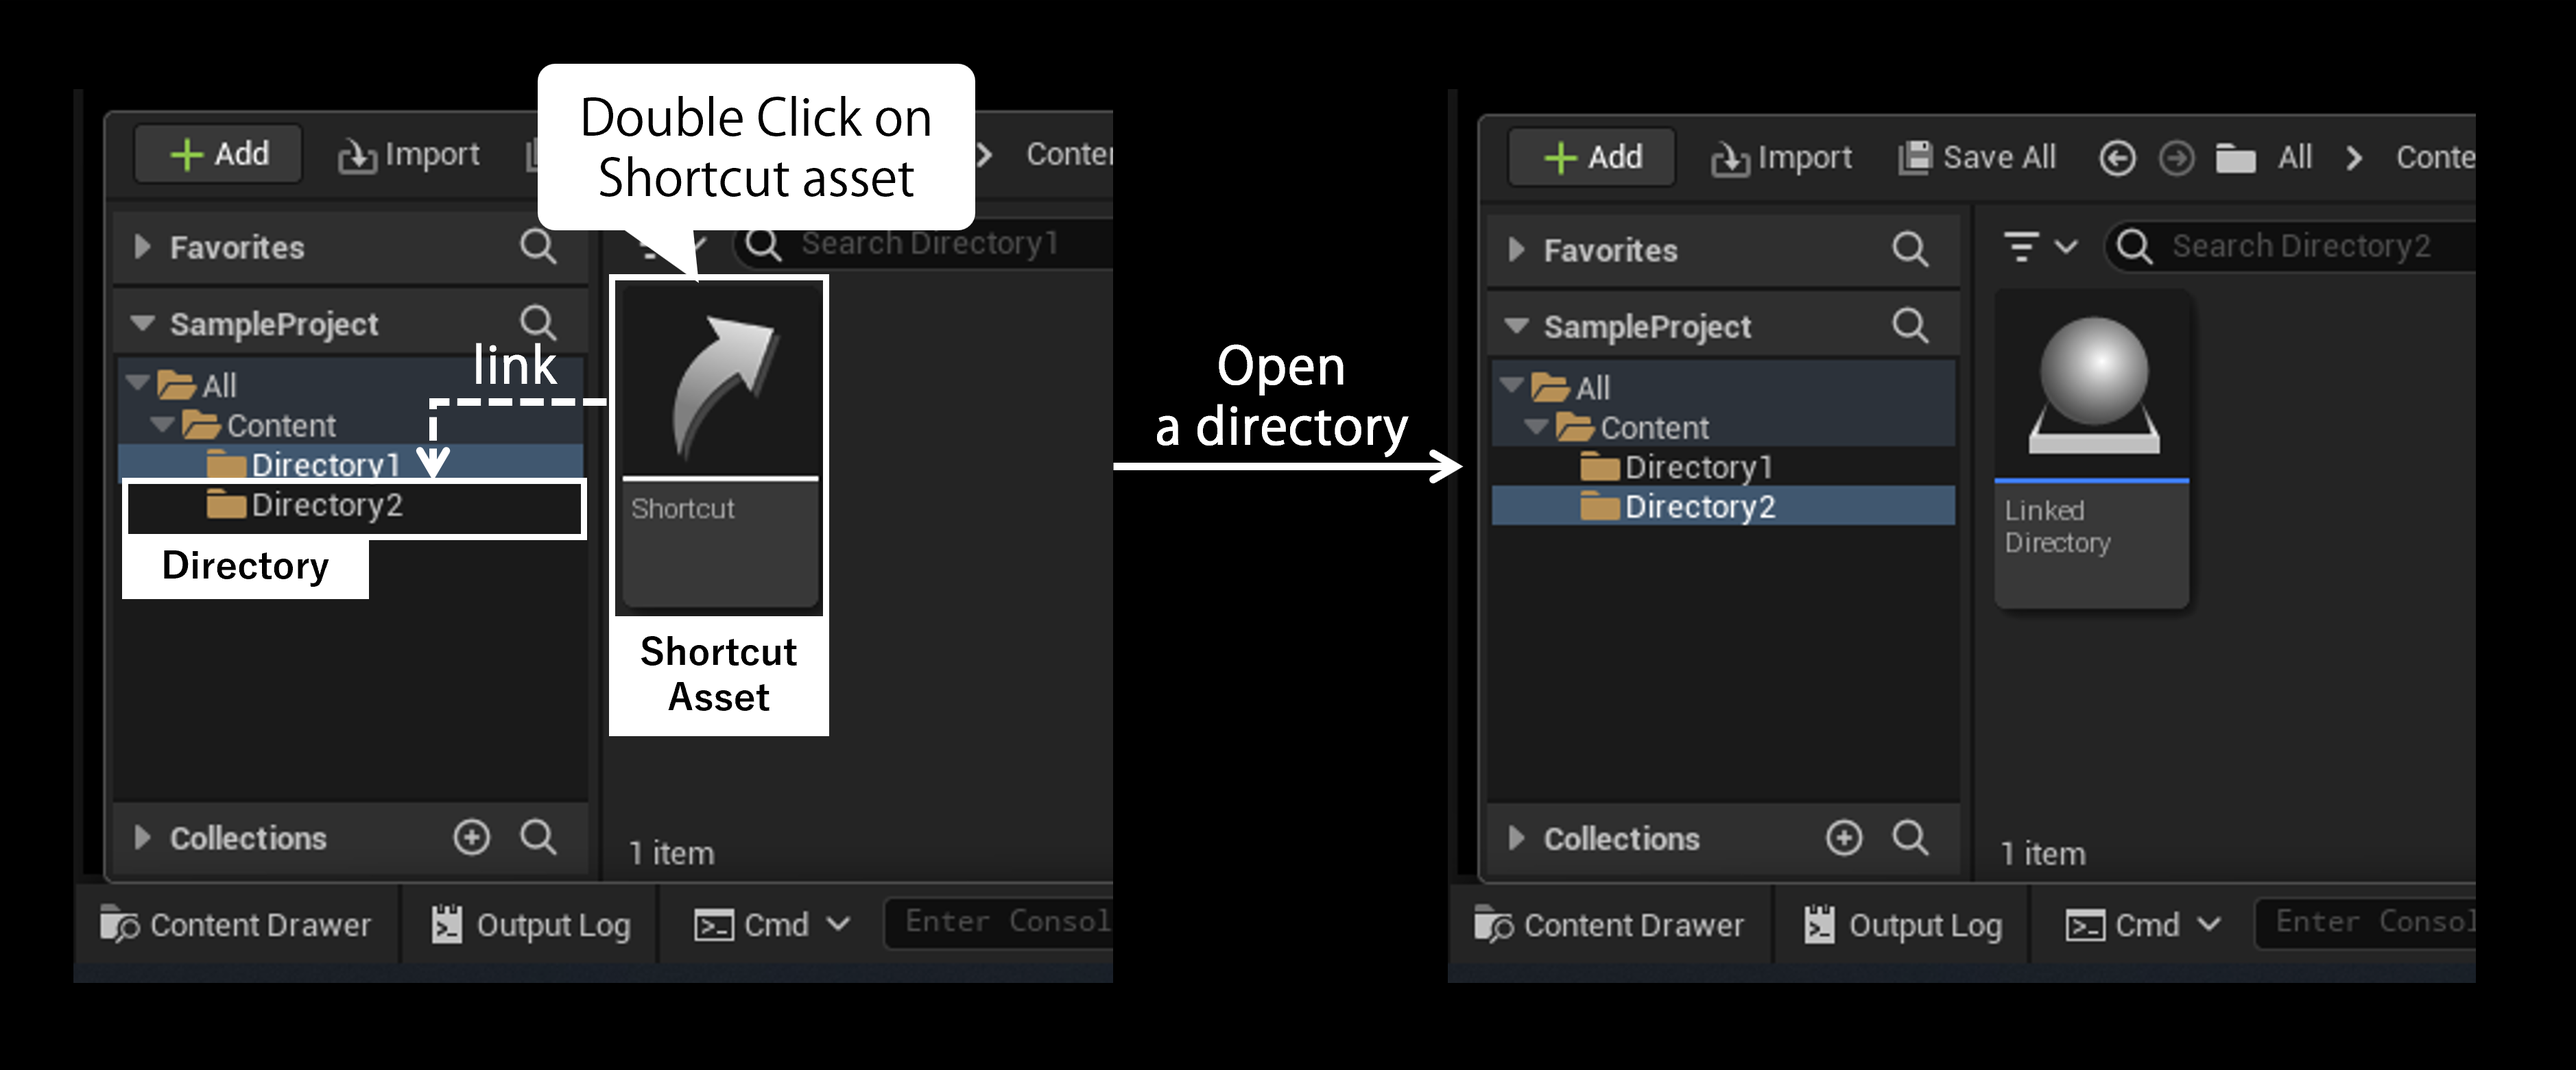
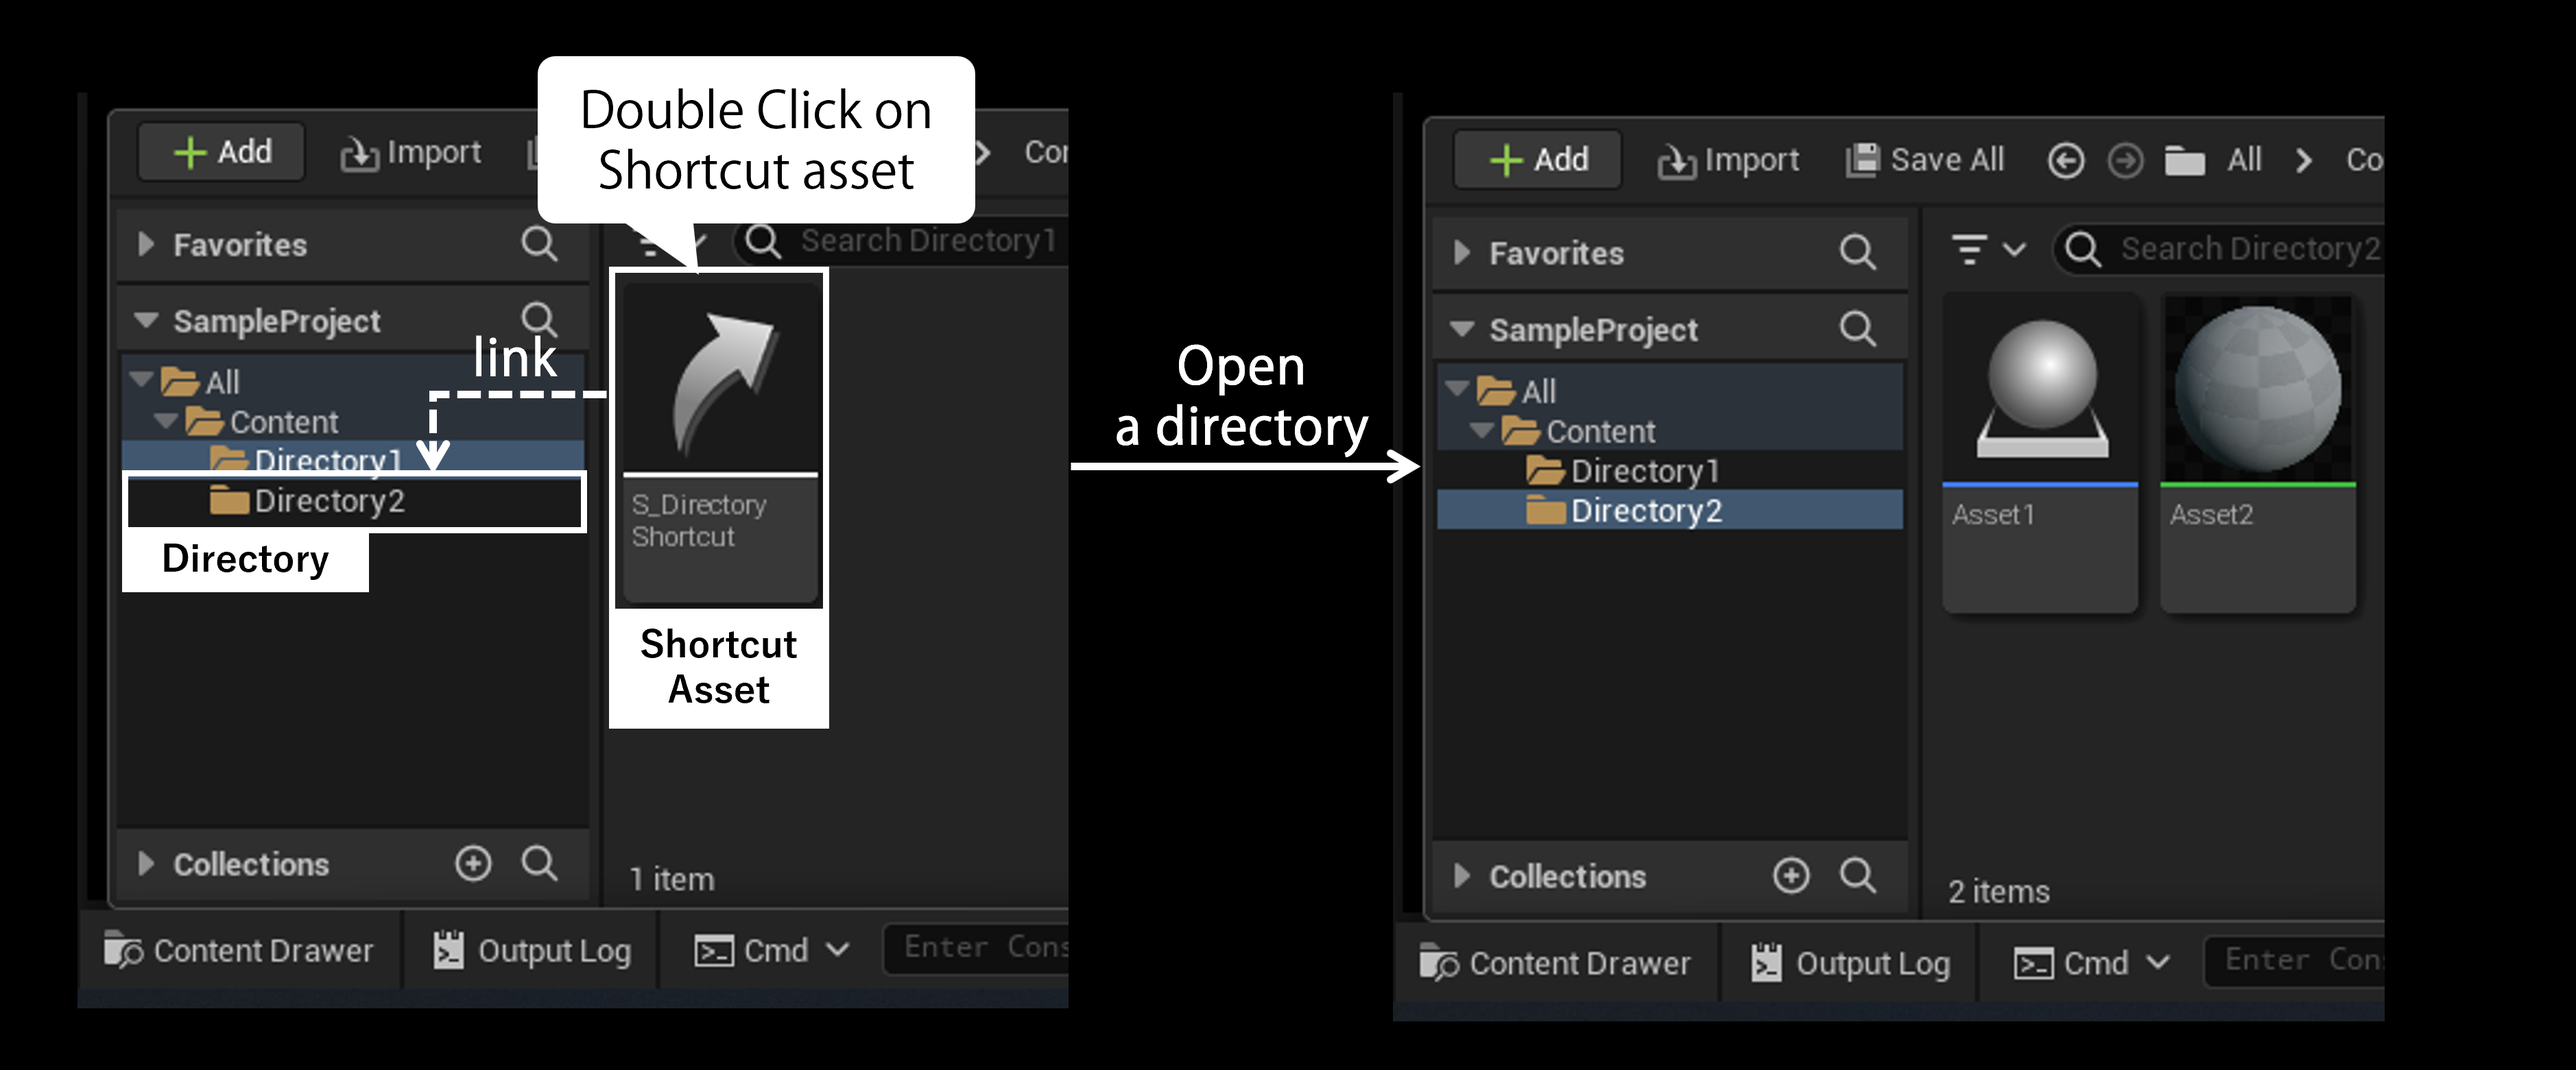
Fix: Fluctuating and images

diff --git a/README.md b/README.md
@@ -1,11 +1,11 @@
 # Unreal Engine Plugin: Shortcut Asset
 
-**Shortcut Asset** is an Unreal Engine plugin that adds asset to link another asset or a directory with the shortcut asset.  
+**Shortcut Asset** is an Unreal Engine plugin that adds asset to open a linked asset/directory with the shortcut asset.  
 This works like a shortcut file in Windows/macOS or a symbolic link in Linux.
 
 ![Shortcut Asset Thumbnail](docs/images/shortcut_asset_thumbnail.png)
 
-Unreal Engine supports the Collections and Favourites feature to link assets/directories with more accessibility.  
+Unreal Engine supports the Collections and Favourites feature to open assets/directories with more accessibility.  
 However, these features aggregate the access points, which does not allows you to manage assets flexibly.  
 By using this plugin, you can realize a flexible access points.
 
